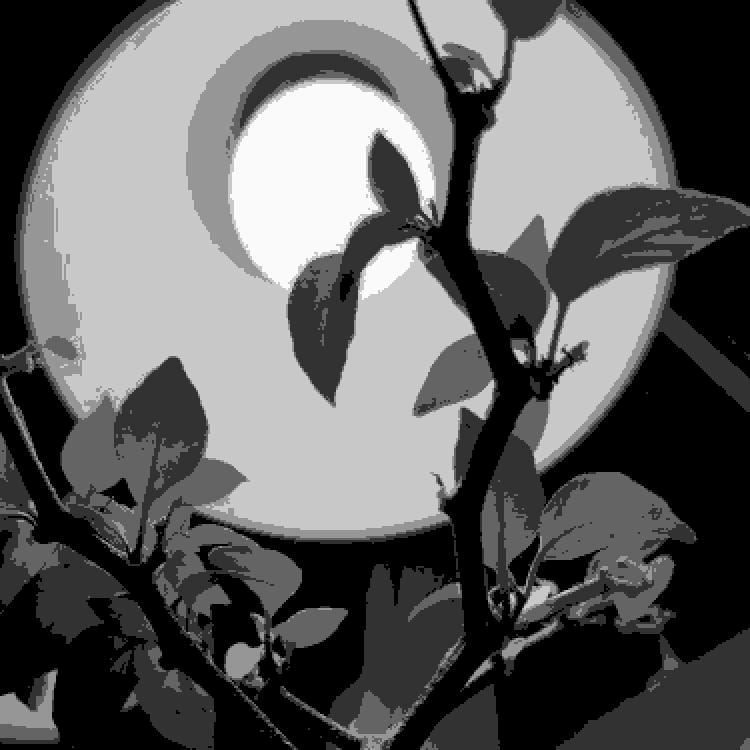
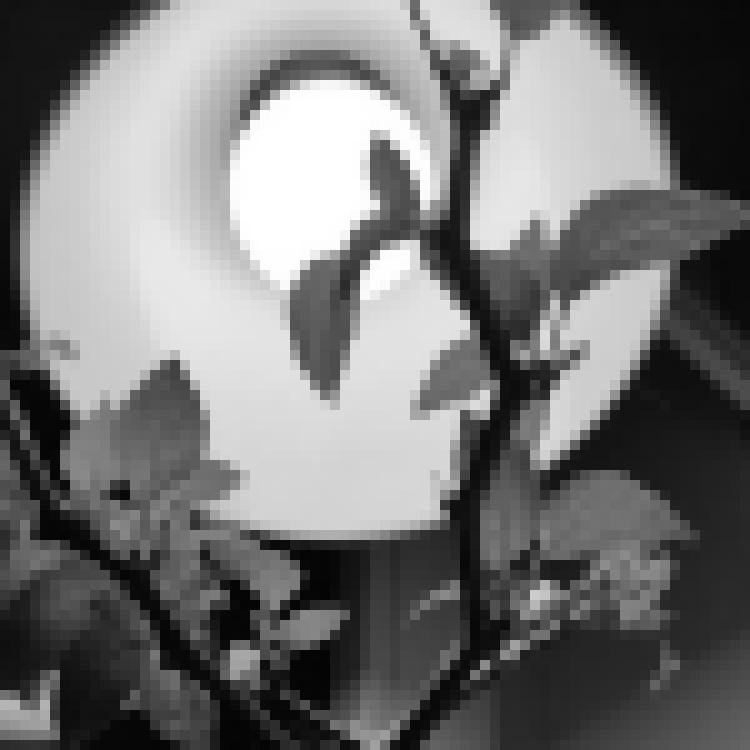
этап 3

diff --git a/filter.py b/filter.py
@@ -2,34 +2,25 @@ from PIL import Image
 import numpy as np
 img = Image.open("img2.jpg")
 arr = np.array(img)
-size = 2
+size = 10
 gradation = 50
 a = len(arr)
 a1 = len(arr[1])
 
 
 def findMidValue(i, j, size):
-    s=0
     global arr
-    for n in range(i, i + size):
-        for n1 in range(j, j + size):
-            r = arr[n][n1][0]
-            g = arr[n][n1][1]
-            b = arr[n][n1][2]
-            M = int(r) + int(g) + int(b)
-            s += M / 3
-    s = int(s // size**2)
+    matrix = arr[i:i + size, j:j + size, ::]
+    b = list(matrix.reshape(1, matrix.shape[0] * matrix.shape[1] * 3))[0]
+    b = list(map(lambda x: int(x)/3, b))
+    s = int(sum(b)// size**2)
     return s
 
 
 def changeColour(i, j, size, gradation):
     global arr
     s = findMidValue(i, j, size)
-    for n in range(i, i + size):
-        for n1 in range(j, j + size):
-            arr[n][n1][0] = np.uint8((s // gradation) * gradation)
-            arr[n][n1][1] = np.uint8((s // gradation) * gradation)
-            arr[n][n1][2] = np.uint8((s // gradation) * gradation)
+    arr[i:i + size, j:j + size, ::] = s
 
 
 i = 0
